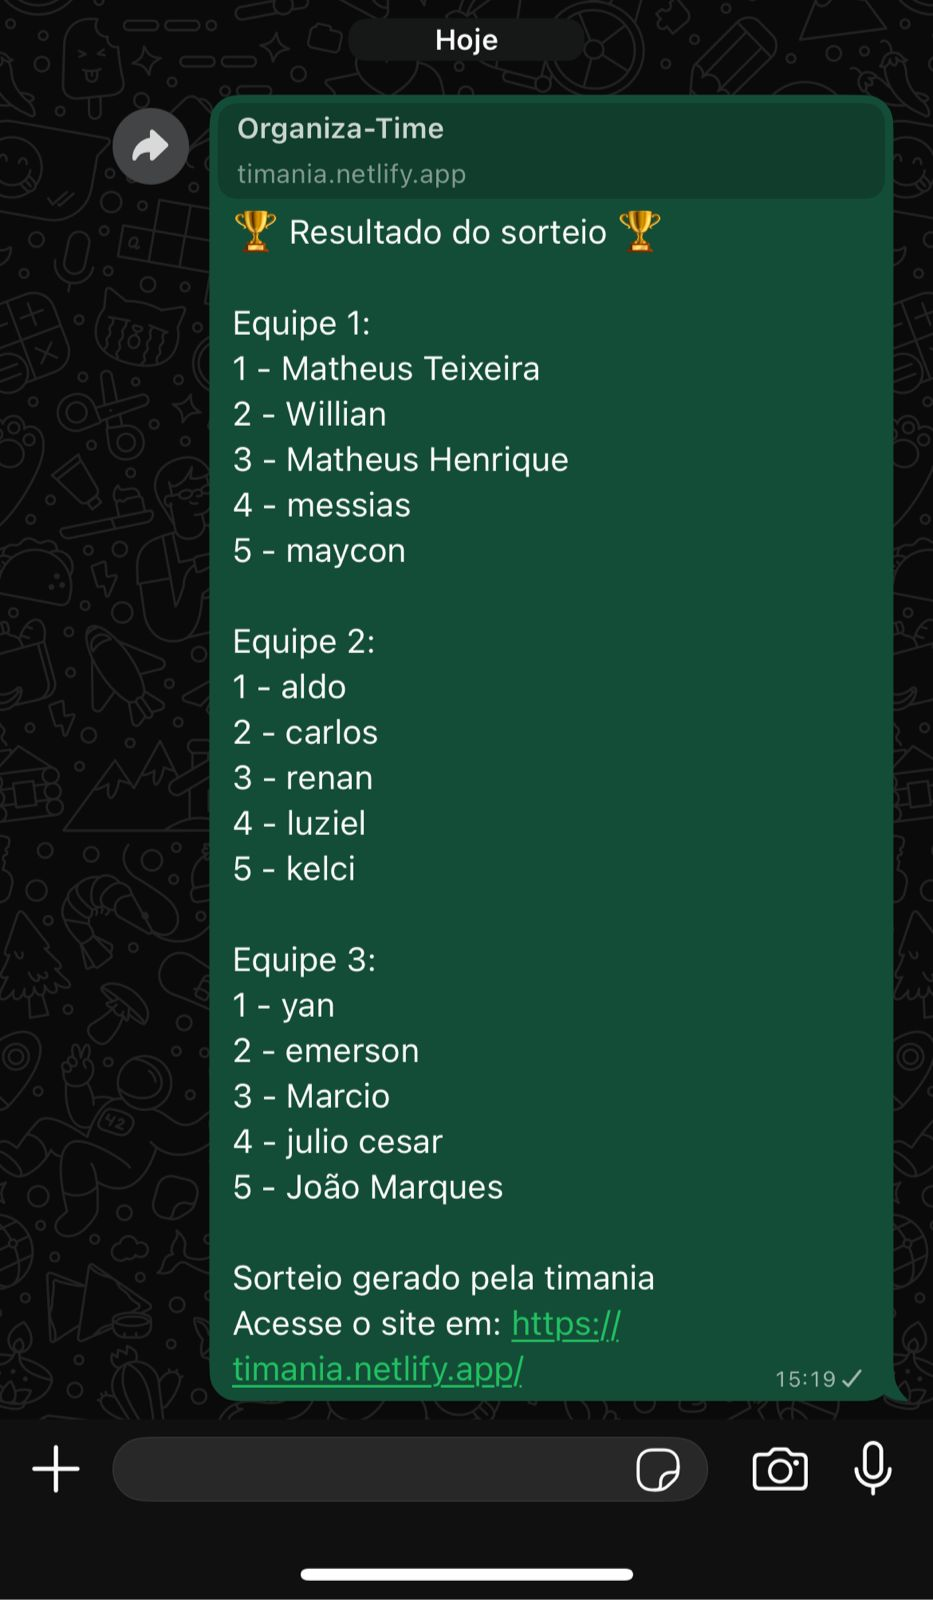
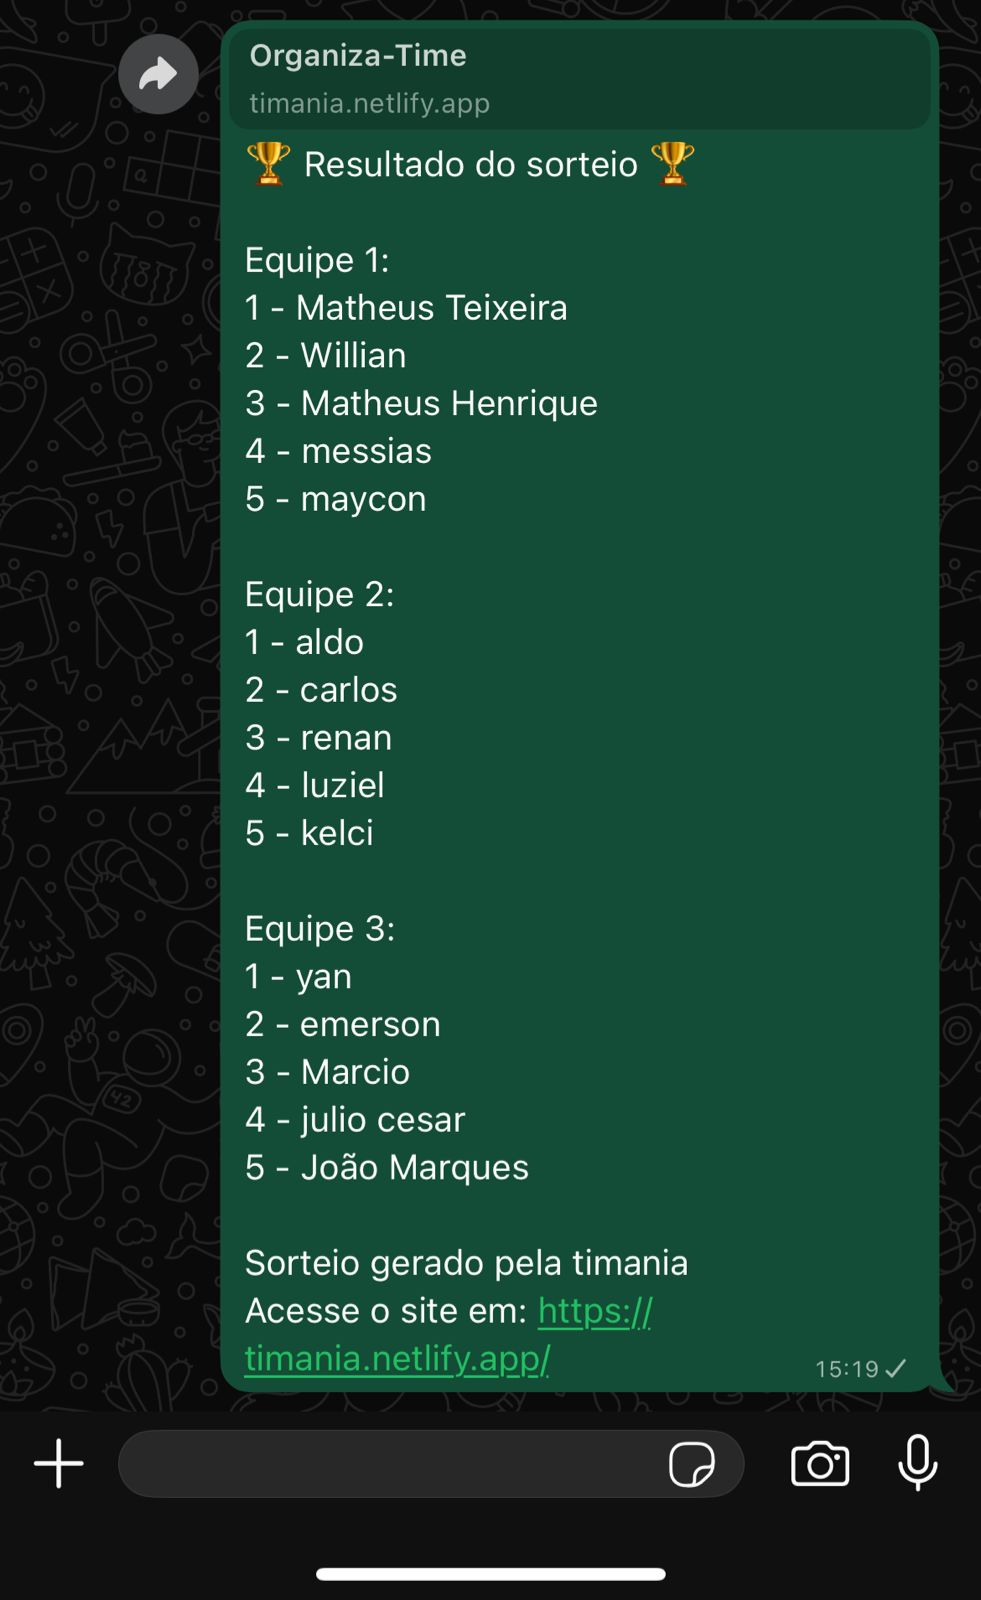
img

Changed region(s): [[0.0932, 0.0, 0.9636, 0.75], [0.2176, 0.7812, 0.9946, 0.9375], [0.0311, 0.9062, 0.0932, 0.9375]]

diff --git a/readme.md b/readme.md
@@ -22,7 +22,19 @@ Um Organizador de equipes de futebol simples e reponsivo, usando puramente HTML5
 </p>
 
 <p align="center">
-    <img src="./assets/img/adiciona_jogadores.jpeg" width="200px">
+    <img src="./assets/img/tamanho_equipes.jpeg" width="400px">
+</p>
+
+<p align="center">
+    <img src="./assets/img/adicionar_jogadores.jpeg" width="400px">
+</p>
+
+<p align="center">
+    <img src="./assets/img/sortear_equipes.jpeg" width="400px">
+</p>
+
+<p align="center">
+    <img src="./assets/img/compartilhar_whatsapp.jpeg" width="400px">
 </p>
 
 
